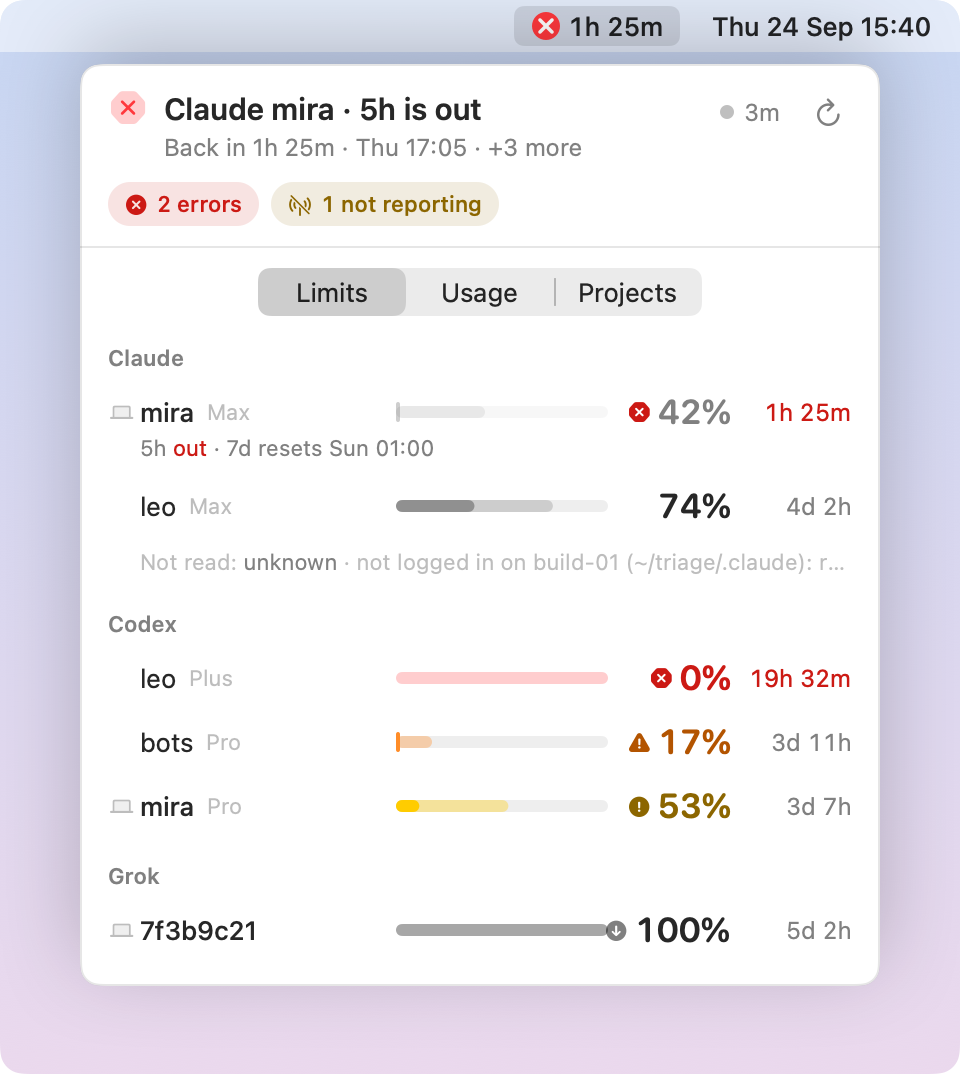
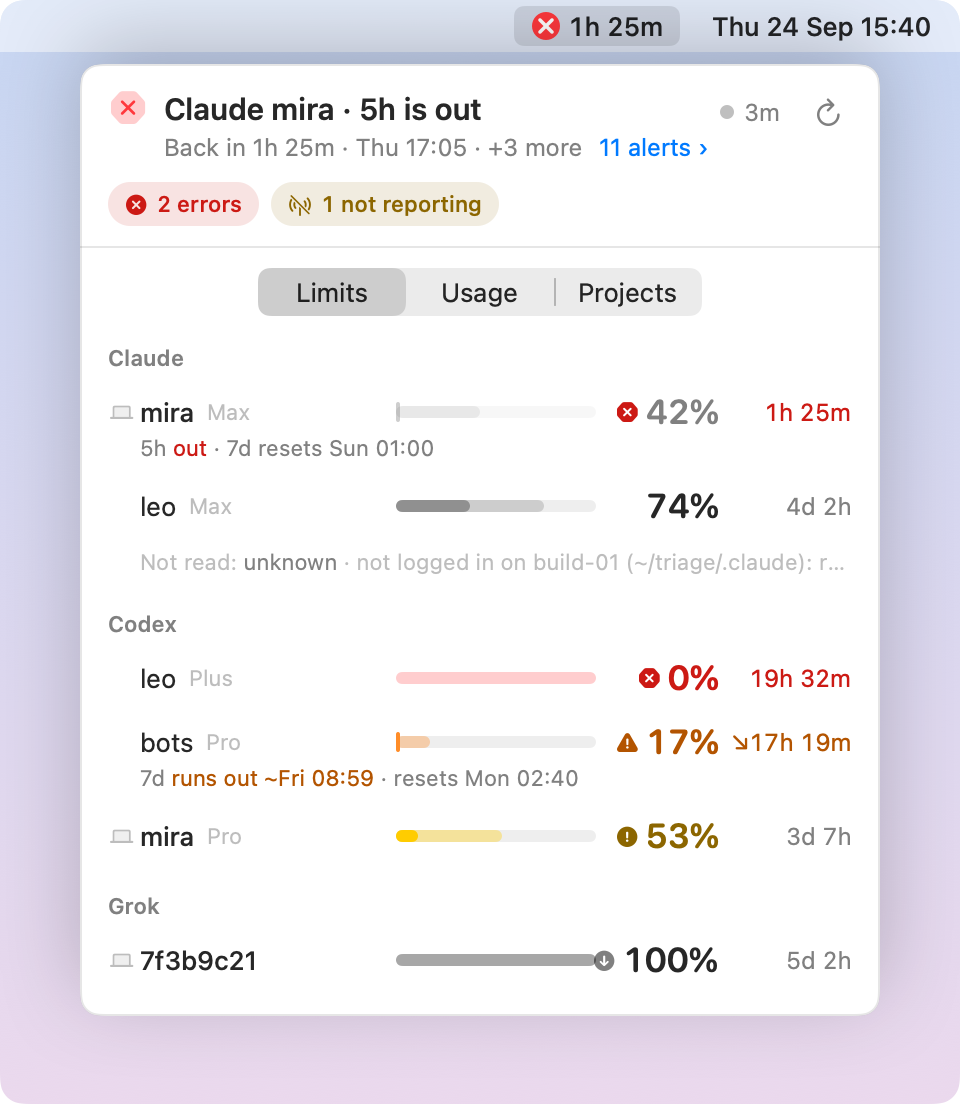
Describe the alerts list, the run-out countdown, the details of a subscription that runs out or is idle, and the Terminal menu items in the README, design.md, and the implementation status, and regenerate the app's pictures with the alerts and those details among them (#7).

diff --git a/scripts/demo/shots.ts b/scripts/demo/shots.ts
@@ -345,7 +345,8 @@ async function shootTour() {
 }
 
 // app draws the macOS menu bar app with its own renderer: its item in the
-// menu bar over the popover, the popover's tabs, the menu bar's looks, and
+// menu bar over the popover, the popover's tabs, its alerts list, the
+// details of a subscription that runs out, the menu bar's looks, and
 // Settings' General pane, each dark and light, and for posts the three
 // tabs side by side on the backdrop. Only on macOS, with Xcode or the
 // Command Line Tools.
@@ -361,6 +362,8 @@ async function app() {
     ["popover-limits", "app-limits"],
     ["popover-usage", "app-usage"],
     ["popover-projects", "app-projects"],
+    ["popover-alerts", "app-alerts"],
+    ["popover-limits-expanded-over", "app-details"],
     ["menubar-states", "app-menubar"],
     ["settings-general", "app-settings"],
   ];

diff --git a/design.md b/design.md
@@ -255,14 +255,14 @@ The key bar follows the common practice of modern TUIs:
 
 The popover answers the same questions as the page, in the same order, in 400 points. The report decides everything it shows; the app only lays it out. Its renders are `AIUsageBar --render <report.json> <folder>`.
 
-- **The verdict line first.** The header is one sentence: what is out and when it is back, what will run out and when, or "All on track" with the subscription that has the most room. More of them count as "+N more". Without a reading, it says so. The dot beside it is the worst of the collector's health, with the report's age; the menu under it has the details.
+- **The verdict line first.** The header is one sentence: what is out and when it is back, what will run out and when, or "All on track" with the subscription that has the most room. More of them count as "+N more", and a link after it, "11 alerts ›", shows every entry of the report's ATTENTION in place of the tab's body, at the same height: one line each in the report's order and words, `text` and `subject`, with the mark of its kind, opening its subscription in Limits or its devices in Usage, over a last line naming the subscription with the most room. Nothing the report says is hidden behind a count: an idle subscription is a dim line, an unread one says why. Without a reading, it says so. The dot beside it is the worst of the collector's health, with the report's age; the menu under it has the details.
 - **Chips for what to fix.** Errors, devices not reporting, devices that stopped updating themselves, and health that is failing or unscheduled get a chip each, with a count. A device on an older release that still updates itself is lag after a release, not a chip. A problem of this Mac that a health chip names is not counted again among the errors. A click filters Usage to those devices, and the chosen chip shows it and clears it on a second click; a health chip opens the menu, which lists the chip's messages. Subscriptions do not get chips: the verdict and Limits have them.
 - **Color means a problem.** Red is out, orange runs out, yellow is tight, and all else is gray: a window left mostly unused has a gray arrow, and this Mac a gray laptop. Every color also reads as a glyph or a word. The popover has no green, and no blue but its controls.
 - **The projected bar.** A Limits bar is what is left, solid from the leading edge, as the percent beside it and the menu bar's ring are: it drains as the window fills. What the forecast says will be gone by the reset is cut from its end, faint, so the solid part is what will be left then. A forecast past 100% makes the whole fill faint, with a notch at the leading edge. An out window is an empty track tinted red. An old reading is dim, and so is the bar of an account that another window stops: its mark and countdown say why, in red.
-- **A row is the account's state.** A Limits row shows its main window's bar and percent, and the account's state from the report: when another window stops it, the row takes that window's mark and counts down to when it is back, with the window named under it.
-- **Details on click.** A row is one line of numbers. A click opens its details under it, one row at a time, as a few lines of a dim label and a value: each window in what is left and will be at its reset, the devices that used it, errors, releases, paths, and the tokens of each period as a small table with the chosen one bright. What the row shows is not said again. Tooltips carry who read a window, and what a word or glyph needs.
+- **A row is the account's state.** A Limits row shows its main window's bar and percent, and the account's state from the report: when another window stops it, the row takes that window's mark and counts down to when it is back, with the window named under it. A row that runs out counts down to when its first window does, "↘17h 19m" in orange, or says "↘ ran out" when an old reading has, with the window and its reset under it and in the tooltip; the countdown is the report's `runs_out_at`, the earliest of the account's windows.
+- **Details on click.** A row is one line of numbers. A click opens its details under it, one row at a time, as a few lines of a dim label and a value: each window in what is left and will be at its reset, the forecast of the one that runs out with the pace it takes, who spent the window since it began from the report's weighted tokens, when it was last used, why the report calls it idle or could not read it, errors and releases in the words of the report's NOTE, paths, and the tokens of each period as a small table with the chosen one bright. What the row shows is not said again. Tooltips carry who read a window, and what a word or glyph needs.
 - **Projects by repository.** A project is a repository with its subfolders and worktrees. Projects next to each other in one folder show under its name, the ones on their own under "Other", in the report's order. Their last activity reads "20m ago", so it never passes for a countdown.
-- **Nothing blinks or jumps.** The popover takes its height from Limits, the tab people open it for, and keeps it while it is open, so switching tabs, opening details, and "Show All" scroll inside it; Usage keeps its top line and its total in place as its list scrolls. The lists scroll without a scroller, since one that takes room of its own, as System Settings can ask for, would move every column; a cut last row shows there is more. The tabs lay their rows on one grid of mark, name, bar, and value, with a trailing column for a countdown on Limits and an age on Projects; Usage has none, so its values end at the margin. It opens on the last tab, with every row closed.
+- **Nothing blinks or jumps.** The popover takes its height from Limits, the tab people open it for, and keeps it while it is open, so switching tabs, opening details, and "Show All" scroll inside it; Usage keeps its top line and its total in place as its list scrolls. The lists scroll without a scroller, since one that takes room of its own, as System Settings can ask for, would move every column; a cut last row shows there is more. The tabs lay their rows on one grid of mark, name, bar, and value, with a trailing column for a countdown on Limits and an age on Projects; Usage has none, so its values end at the margin. It opens on the last tab, with every row closed. The countdown column is wide enough for "↘17h 19m" beside the percent.
 - **Type.** Nothing smaller than 11 points. Numbers are monospaced digits, tokens are whole millions, and durations have at most two units, as on the page.
 
 The menu bar item is a ring of what is left of the tightest window, drawn from 12 o'clock like a battery, with its percent left, the time until its reset, or nothing, as Settings picks. It is a template image, in the menu bar's own color, until a window runs out or will. One that will is an orange arc over an orange tint; one that is out, the most urgent, is the strongest mark, a solid red disc with a white cross, and the item shows the time until it is back.

diff --git a/README.md b/README.md
@@ -198,7 +198,7 @@ On macOS 14 and later, the installer also puts AI Usage, a menu bar app, in `~/A
   <img alt="The menu bar item in each state: on track, tight, used up, stale, over, out, time until reset, no reading, and the ring alone" src="docs/demo/app-menubar.png">
 </picture>
 
-**The popover** opens with one line that answers the first question: what is out and when it is back, what runs out and when, or that all is on track and where the most room is. Chips under it name what to fix on the devices, such as errors or a device that stopped reporting; a click shows those devices. The dot beside it is the collector's health and the report's age, and opens a menu with Collect Now, Settings, and Quit. Then three tabs:
+**The popover** opens with one line that answers the first question: what is out and when it is back, what runs out and when, or that all is on track and where the most room is. When the report has more to say, the line ends with a link, "11 alerts ›", to every entry of its ATTENTION, in its order and its words, in place of the tab: one line each with the mark of its kind, a click opening the subscription in Limits or the devices in Usage, and last the subscription with the most room. Chips under it name what to fix on the devices, such as errors or a device that stopped reporting; a click shows those devices. The dot beside it is the collector's health and the report's age, and opens a menu with Collect Now, the report, the device status view, and every project in Terminal, Settings, and Quit. Then three tabs:
 
 <table>
 <tr>
@@ -208,11 +208,18 @@ On macOS 14 and later, the installer also puts AI Usage, a menu bar app, in `~/A
 </tr>
 </table>
 
-- **Limits:** a row per account: a bar of what is left, with the forecast's part faint, the percent left, and the time until the reset. When another window stops the account, such as a 5-hour window that is out, the row says so under it.
+- **Limits:** a row per account: a bar of what is left, with the forecast's part faint, the percent left, and the time until the reset. A row that runs out counts down to when it does instead, "↘17h 19m" in orange, or says "↘ ran out" when an old reading has, and names the window and its reset under it. When another window stops the account, such as a 5-hour window that is out, the row says so under it.
 - **Usage:** the tokens of each device or each subscription, today or over 7, 30, or 90 days, in whole millions.
 - **Projects:** this Mac's repositories, their worktrees counted in, grouped by the folder they share.
 
-A click on a row opens its details: each window with its forecast, a device's release, tools, and errors, a project's sessions. Color means a problem only: red is out, orange runs out before the reset, yellow is tight. `⌘1` to `⌘3` switch the tabs and `⌘R` collects now.
+A click on a row opens its details: each window with its forecast, and the forecast of the one that runs out with the pace it takes; who spent the window since it began, when the subscription was last used, and why the report calls it idle or could not read it; a device's release, tools, and errors, in the words of the report's NOTE; a project's sessions. Color means a problem only: red is out, orange runs out before the reset, yellow is tight. `⌘1` to `⌘3` switch the tabs and `⌘R` collects now.
+
+<table>
+<tr>
+<td><picture><source media="(prefers-color-scheme: light)" srcset="docs/demo/app-alerts-light.png"><img alt="The alerts: every entry of the report's ATTENTION, one line each with the mark of its kind, and the subscription with the most room under them" src="docs/demo/app-alerts.png"></picture></td>
+<td><picture><source media="(prefers-color-scheme: light)" srcset="docs/demo/app-details-light.png"><img alt="The details of a subscription that runs out: its countdown, each window, the forecast at this week's pace, the devices that spent the window, and when it was last used" src="docs/demo/app-details.png"></picture></td>
+</tr>
+</table>
 
 **Notifications** say when a window is out, "Claude mira · 5h is out", with when it is back, and when one will run out before its reset, "Claude mira · 7d runs out ~Sat 10:28", with how long before its reset. They are the windows the report's ATTENTION marks out and over, and Settings picks which: When a Window Is Out (on by default); When a Window Will Run Out, Within a Day (the default), Any Time, or Never, since a forecast early in a long window can say it runs out days ahead and change by the next reading; and Subscriptions, This Mac's (the default), those logged in here, or The Team's, every subscription with a reading, bots' included, where a notification also names the device that uses it most, "used on build-01 +9". Each window gets one notification per period and state, not one at every run: a forecast that dips under 100% and rises again says nothing new, and after its reset a window starts over. The app remembers what it said in its settings, so a restart says nothing twice. A click on a notification opens the popover on that subscription in Limits, when the menu bar has room to show the app's item. macOS asks for permission when there is first something to say, or when you turn a notification on; when you decline, the app asks no more, and Settings says where to turn notifications on.
 

diff --git a/docs/demo/README.md b/docs/demo/README.md
@@ -40,6 +40,8 @@ TZ=Europe/Berlin ai-usage report --from docs/demo/solo.json --plain --width 110
 | `json.png` | `ai-usage --json` through `jq`: what an agent reads |
 | `menubar.png`, `menubar-light.png` | the macOS menu bar app for the team: its item in the menu bar, and under it the popover on Limits, dark and light; the README's picture of the app |
 | `app-limits.png`, `app-usage.png`, `app-projects.png` | the app's three tabs, each with `-light.png` beside it |
+| `app-alerts.png`, `app-alerts-light.png` | the app's alerts, every entry of ATTENTION in place of Limits, with the subscription with the most room under them |
+| `app-details.png`, `app-details-light.png` | the app's Limits with the details of a subscription that runs out open: its countdown, each window, the forecast, who spent the window, and when it was last used |
 | `app-menubar.png`, `app-menubar-light.png` | the app's item in the menu bar in each state: on track, tight, used up, stale, over, out, time until reset, no reading, and the ring alone |
 | `app-settings.png`, `app-settings-light.png` | the app's Settings on General: what the menu bar shows, notifications, this Mac's name and opening at login, and the versions |
 | `social/app-tabs.png` | the app's three tabs side by side on a backdrop, for posts |
@@ -66,7 +68,7 @@ The script regenerates the two reports and builds `ai-usage`. It shows each pict
 The menu bar app draws its own pictures with `AIUsageBar --render REPORT OUTDIR`, which writes them in light and dark as PNGs into `OUTDIR` and exits. It reads the report instead of running `ai-usage`, and takes its `generated_at` as the time now, so the ages and countdowns match the terminal pictures. On macOS, `shots.ts` runs it on `team.json` and copies the pictures above into place; `bun scripts/demo/shots.ts app` makes only those. For each look, `light` or `dark`, the renderer writes:
 
 - `popover-TAB-LOOK.png`, each tab as tall as the popover shows it, and `popover-TAB-full-LOOK.png`, the whole tab. TAB is `limits`, `usage`, `usage-subscriptions` (Usage by subscription), and `projects`; a report of one device has no `usage-subscriptions`
-- `popover-STATE-LOOK.png`, the popover after a click: `limits-expanded`, `usage-expanded`, and `projects-expanded`, a row opened; `usage-filtered`, `usage-filtered-silent`, and `usage-filtered-not-updating`, Usage after a click on the chip of devices with errors, not reporting, or not updating, from Usage by subscription; and `calm`, the popover with nothing out or running out
+- `popover-STATE-LOOK.png`, the popover after a click: `limits-expanded`, `usage-expanded`, and `projects-expanded`, a row opened; `usage-filtered`, `usage-filtered-silent`, and `usage-filtered-not-updating`, Usage after a click on the chip of devices with errors, not reporting, or not updating, from Usage by subscription; `alerts`, the alerts after a click on the verdict's link; `limits-expanded-over` and `limits-expanded-idle`, Limits as tall as it is with the details of the first subscription that runs out or is idle open; `limits-stale`, Limits with a reading of the subscription that runs out 36 hours old, so its row says it ran out; and `calm`, the popover with nothing out or running out
 - `popover-STATE-LOOK.png`, the popover with no report to show: `loading`, `not-installed`, `not-collected`, `mismatch` (a report of another schema), and `failed`
 - `settings-PANE-LOOK.png`, each Settings pane: `general`, `accounts`, and `team`
 - `menubar-LOOK.png`, the app's item in the menu bar with the popover on Limits under it, and `menubar-states-LOOK.png`, the item in each state

diff --git a/ai-report.md b/ai-report.md
@@ -232,7 +232,7 @@ Done, in short:
   - The report now has the words the app used to build itself (#6): each ATTENTION entry has `subject` and `text`, its line as the console says it with room for everything, and each team device `note`, its NOTE in the status view. Clocks in them are in the time zone of the machine that made the report; `report --from` fills them in for a report saved without them. All of it is worked out when the report is made, so the snapshot does not change.
   - Tokens that went to no login (`unknown`) have a `no_reading` that names the device, and the folder where it has several, whose harness answered that nobody is logged in, with how to log in, as NO READING in ATTENTION. Without such an answer, it says nothing rather than guess.
   - IDLE, a quiet ATTENTION kind ranked with UNDER and shown dim: a paid subscription with a reading that no team device has used for 7 days, by its last activity, where nothing says someone outside the team does. Not for `unknown`, Hermes, or a free plan; it takes the place of UNDER for that subscription.
-  - The menu bar app reads such a report as it read the one before: it skips `idle`, as it does any kind it does not know, and shows the `unknown` account's `no_reading` in the line of Limits that names the subscriptions not read. It does not show `subject`, `text`, or `note` yet (#7).
+  - The menu bar app shows what such a report says (#7): its verdict line links to every ATTENTION entry, in the entry's `subject` and `text`, `idle` included, as a dim line; Usage says a device's problem in its `note`; and the details of a subscription give the `unknown` account's `no_reading` and the idle entry's reason. A row that runs out counts down to its `runs_out_at`, and the status menu opens the report, its device status view, and every project in Terminal. A report from before these fields falls back to `message` and the app's own words.
 - **Menu bar app** (`macos/`): on macOS 14 and later, `install.sh` also puts AI Usage, a SwiftUI menu bar app, in `~/Applications` and opens it, and self-update keeps it at the binary's release (`ai-usage_darwin_app.zip`, universal and ad-hoc signed). It shows `ai-usage report --json` and changes settings through the same commands a terminal would, so every number, state, forecast, window that limits an account (`limits`), and the collector's health (`collector.health`) comes from the Go report. It starts at login. `AI_USAGE_NO_APP=1` installs without it.
   - Notifications: when a window is `out` or `over` in `attention`, the app posts a notification with the account, the window, and when it runs out or is back. Settings picks which: `out` ones (on by default); `over` ones whose `at`, or `resets_at` when it runs out then, is within a day (the default), at any time, or never; and whose: this Mac's subscriptions (team accounts with `current`, the default) or the team's (every team account with a reading), where the body also names the account's `busiest` device and how many more `users` it has. It says each window once per period and state: once when it runs out before its reset, once more when it is out, and again only after a reset, which the window's `resets_at` tells, give or take half the window's length. A forecast that dips under 100% and rises again in the same period says nothing new. What it said stays in the app's settings, so a restart repeats nothing. A click opens the popover on the account's row in Limits. macOS asks for permission at the first notification, or when a notification is turned on; a refusal stands, and the app asks no more.
 
